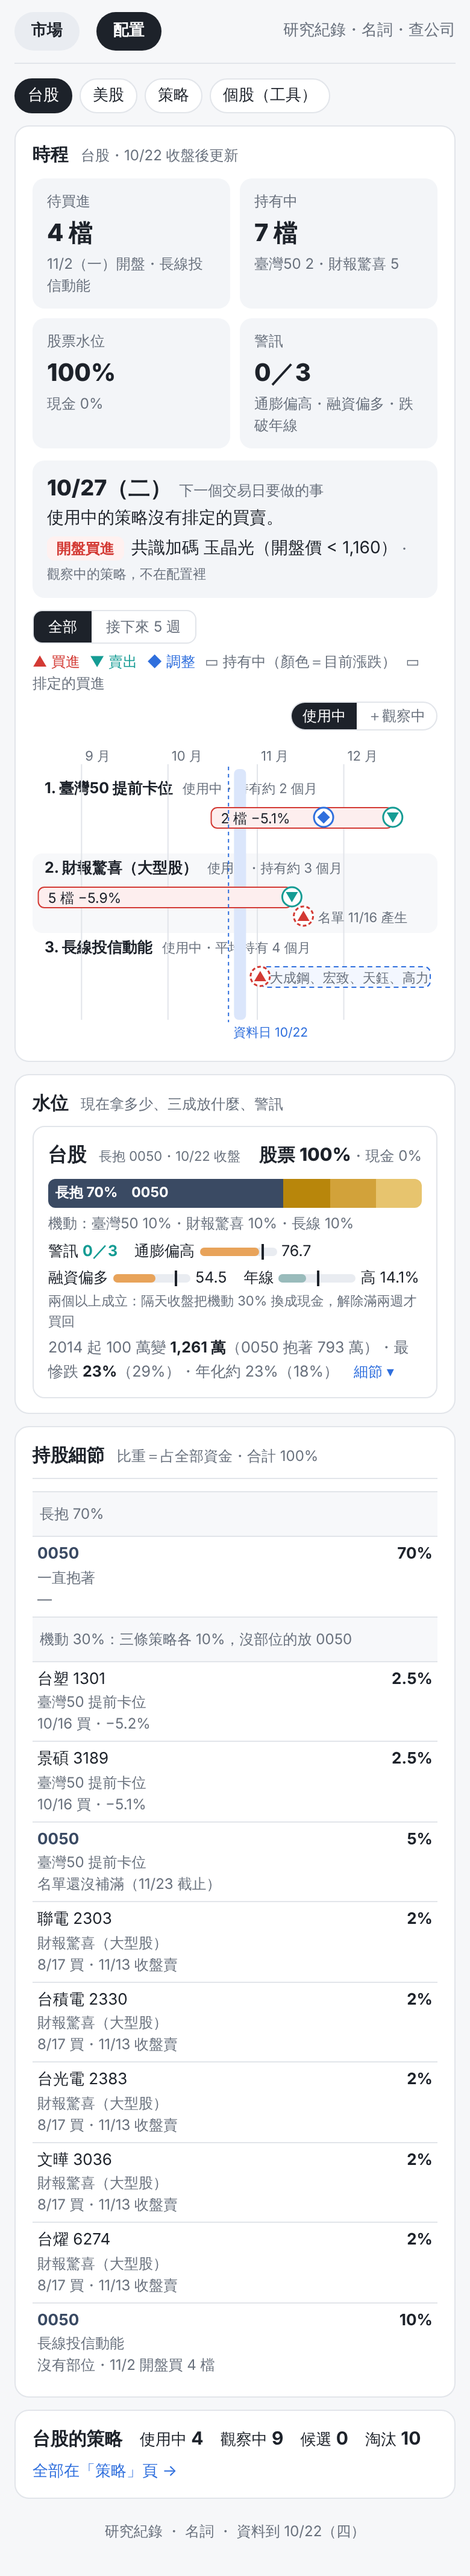
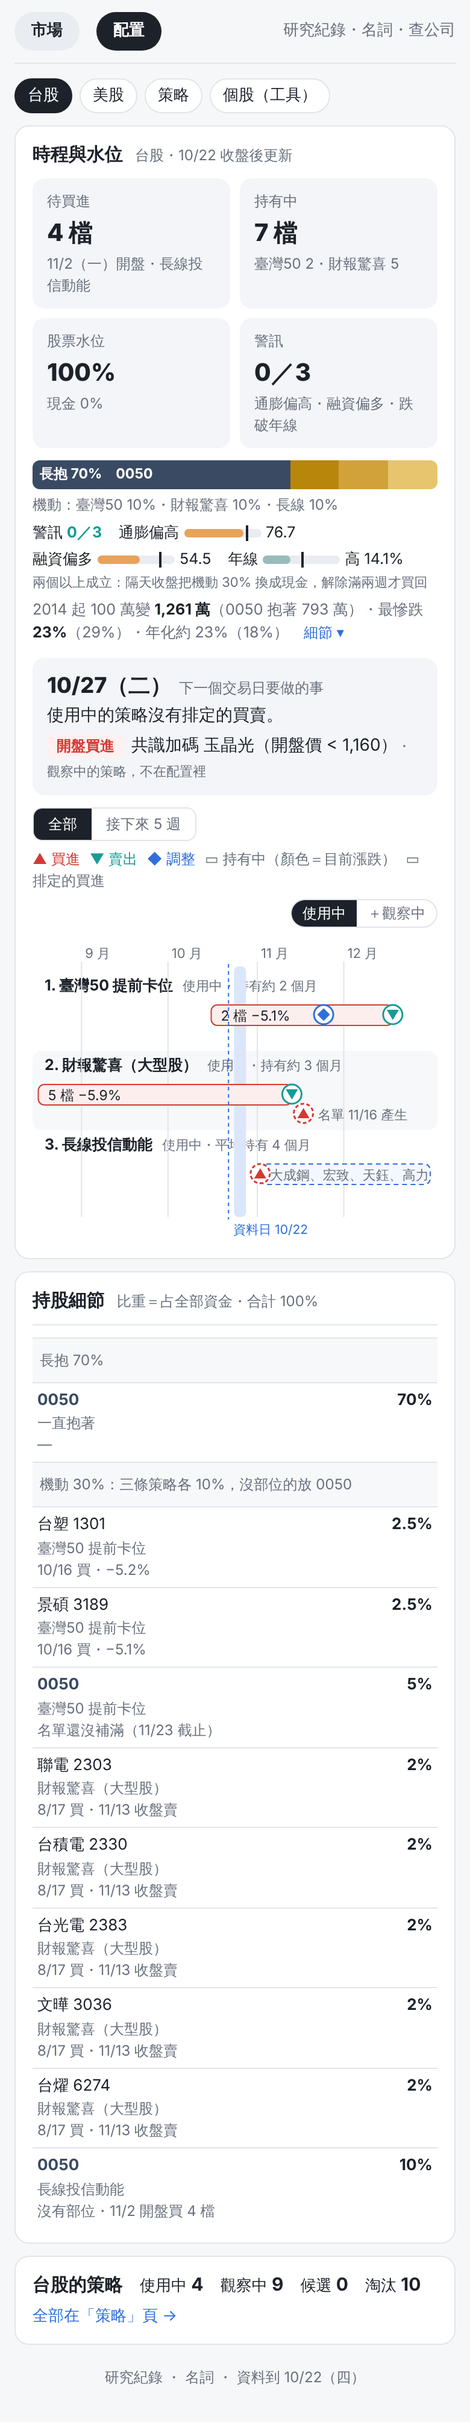
v5 規劃檔第五輪：市場頁美股照舊不整合；配置頁時程與水位併成一張卡；示意圖第五版
Claude-Session: https://claude.ai/code/session_01Bw8dmRtPnDTV9FRHXYRm2s

diff --git a/docs/mockups/ia_v5_mock.html b/docs/mockups/ia_v5_mock.html
@@ -1,6 +1,6 @@
 <!doctype html>
 <html lang="zh-Hant"><head><meta charset="utf-8"><meta name="viewport" content="width=device-width,initial-scale=1">
-<title>籌碼雷達 v5 示意圖（第四版）</title>
+<title>籌碼雷達 v5 示意圖（第五版）</title>
 <style>
 :root{--bg:#f6f7f9;--card:#fff;--ink:#1d222a;--mut:#69717d;--line:#e2e5ea;--red:#d33a34;--teal:#159c94;--gold:#b8860b;--blue:#2f6fdd;--warm:#fff1f0;--cool:#edf7f6;--navy:#3a4a63}
 *{box-sizing:border-box}body{margin:0;background:var(--bg);color:var(--ink);font:14px/1.5 -apple-system,"Noto Sans TC","PingFang TC",system-ui,sans-serif}
@@ -85,10 +85,11 @@
 @media(max-width:640px){.bub{grid-template-columns:7em 3.5em 1fr}}
 .lvc.full{max-width:none}
 .qq{font-size:12.5px;color:var(--mut);margin-top:4px}.qq b{color:var(--ink)}
+.stack{margin-top:10px}.perf{margin-bottom:10px}
 </style></head><body>
 <div class="page" id="market">
   <div class="top"><span class="tab on">市場</span><span class="tab">配置</span><span class="r">研究紀錄・名詞・查公司</span></div>
-  <div class="mk"><span class="on">台股</span><span>美股</span></div>
+  <div class="mk"><span class="on">台股</span><span>S&amp;P 500</span><span>那斯達克</span><span>那斯達克 100</span><span>費半</span></div>
   <div class="card">
     <div class="hd"><span class="px">加權指數 46,041</span><span class="d">10/22（四）・離 60 日高點 −7.6%</span></div>
     <div class="chips"><span class="chip hot">基本面 94 過熱</span><span class="chip hot">籌碼 83 過熱</span><span class="chip cold">全球資金 17 過冷</span><span class="chip">台灣資金 43</span><span class="chip cold">技術 31 偏冷</span></div>
@@ -141,89 +142,23 @@
   <div class="foot">研究紀錄 ・ 名詞 ・ 資料到 10/22（四）</div>
 </div>
 
-<div class="page" id="market-us" hidden>
-  <div class="top"><span class="tab on">市場</span><span class="tab">配置</span><span class="r">研究紀錄・名詞・查公司</span></div>
-  <div class="mk"><span class="">台股</span><span class="on">美股</span></div>
-  <div class="card">
-    <div class="hd"><span class="px">S&amp;P 500 6,735</span><span class="d">10/22（四）・離 60 日高點 −1.9%</span><span class="d">那斯達克 100 24,980・−2.4%</span><span class="d">費半 6,410・−8.7%（6/22 高點起 −24%）</span></div>
-    <div class="chips"><span class="chip hot">基本面 68 偏熱</span><span class="chip">情緒籌碼 55</span><span class="chip">資金 40</span><span class="chip hot">技術 62 偏熱</span></div>
-    <div class="rad" style="margin-top:10px">
-      <svg viewBox="0 0 220 200" width="100%" style="max-width:260px"><polygon points="110,20 200,100 110,180 20,100" fill="none" stroke="#e2e5ea"/><polygon points="110,60 160,100 110,140 60,100" fill="none" stroke="#e2e5ea"/><polygon points="110,46 150,100 110,130 74,100" fill="rgba(211,58,52,.18)" stroke="#d33a34" stroke-width="2"/><text x="110" y="12" font-size="11" text-anchor="middle">基本面 68</text><text x="204" y="104" font-size="11" text-anchor="end" dx="12">情緒籌碼 55</text><text x="110" y="196" font-size="11" text-anchor="middle">技術 62</text><text x="2" y="104" font-size="11">資金 40</text></svg>
-      <div>
-        <div class="mv">
-          <span class="k">這週</span><span class="v">上週 → 現在</span><span class="v">主要原因</span>
-          <span class="k">基本面</span><span class="v">65 → <b>68</b> +3</span><span class="v">失業率、製造業指數</span>
-          <span class="k">情緒籌碼</span><span class="v">52 → <b>55</b> +3</span><span class="v">VIX 回落、期貨淨多單</span>
-          <span class="k">資金</span><span class="v">42 → <b>40</b> −2</span><span class="v">10 年債、高收益債利差</span>
-          <span class="k">技術</span><span class="v">66 → <b>62</b> −4</span><span class="v">RSI、20 日乖離</span>
-        </div>
-        <div class="oth"><span>技術面依指數：</span><span>S&amp;P 500 <b>62</b></span><span>那斯達克 100 <b>58</b></span><span>費半 <b>71</b> 偏熱</span><span class="note">基本面、情緒籌碼、資金三個面向是整個美股共用的</span></div>
-      </div>
-    </div>
-  </div>
-  <div class="card">
-    <h2>今天的訊號 <small>S&amp;P 500；點一列看之後怎麼走</small></h2>
-    <div class="therm">
-      <span>短線</span><div class="bar"><i style="left:50%"></i><b style="left:40%"></b></div><span class="rd">偏多 3・警示 4 → <b style="color:var(--teal)">偏警示</b></span>
-      <span>中線</span><div class="bar"><i style="left:50%"></i><b style="left:68%"></b></div><span class="rd">偏多 5・警示 2 → <b>偏多</b></span>
-      <span>長線</span><div class="bar"><i style="left:50%"></i><b style="left:76%"></b></div><span class="rd">偏多 6・警示 1 → <b>偏多</b></span>
-    </div>
-    <div class="seg" style="margin-top:10px"><span class="on">短線 1 個月</span><span>中線 3 個月</span><span>長線 12 個月</span></div>
-    <div class="two">
-      <div class="list"><h4 class="up">偏多 3 類 <small style="font-weight:400;color:var(--mut)">之後 1 個月上漲的機率（任一天 62%）</small></h4>
-        <div class="row"><span class="n">上漲家數占比・進入過冷</span><span class="p">70% <small>+2.1%</small></span><span class="s">10/21 收盤進場・持有到 11/20</span></div>
-        <div class="row"><span class="n">20 日乖離・過冷結束<span class="tag">震盪</span></span><span class="p">66% <small>+1.8%</small></span><span class="s">10/17 進場・持有到 11/17・同時成立 3 類</span></div>
-        <div class="row"><span class="n">10 年減 3 個月利差・過冷結束</span><span class="p">64% <small>+1.5%</small></span><span class="s">10/9 進場・持有到 11/9</span></div>
-      </div>
-      <div class="list"><h4 class="dn">警示 4 類 <small style="font-weight:400;color:var(--mut)">之後 1 個月內回撤 5.7% 以上的機率（任一天 8%）</small></h4>
-        <div class="row"><span class="n">M2 年增率・過熱中<span class="tag ok">之後也成立</span></span><span class="p">31% <small>回撤中位 4%</small></span><span class="s">8/29 起成立</span></div>
-        <div class="row"><span class="n">期貨淨多單・進入過熱</span><span class="p">24%</span><span class="s">10/14 進場・持有到 11/13</span></div>
-        <div class="row"><span class="n">隱含波動率・過冷中</span><span class="p">22%</span><span class="s">10/2 起成立・同時成立 2 個</span></div>
-        <div class="more">還有 1 類 ▾</div>
-      </div>
-    </div>
-    <div class="oth" style="margin-top:10px"><span>其他指數：</span><span>那斯達克 100 短線 偏多 <b>2</b>・警示 <b>3</b></span><span>費半 短線 偏多 <b>1</b>・警示 <b>5</b></span><span class="more" style="margin:0">看它們的清單 ▾</span></div>
-  </div>
-  <div class="card">
-    <h2>全部指標 <small>92 個；三個指數共用 60 個，技術面與泡沫依指數各算</small></h2>
-    <div class="srch"><input placeholder="搜尋指標，例如 VIX、失業率、M2"></div>
-    <div class="chips"><span class="chip">基本面 11</span><span class="chip">情緒籌碼 5</span><span class="chip">資金 10</span><span class="chip">技術 9</span><span class="chip">情境 9</span><span class="chip">泡沫 11</span><span class="chip">大跌後買點 7</span><span class="chip">指數型策略 14</span></div>
-    <div class="more">展開全部 92 個 ▾</div>
-  </div>
-  <div class="card" id="bub-us">
-    <h2>泡沫 <small>三個指數各自的等級（0 沒有跡象 … 4 嚴重泡沫）</small></h2>
-    <div class="bub">
-      <span>S&amp;P 500</span><span class="lv y">2</span><span class="cond" style="margin:0"><span class="y">價格爆發 ✓</span><span>估值 ✗</span><span>槓桿 ✗</span><span>未來獲利 ✗</span></span>
-      <span>那斯達克 100</span><span class="lv">0</span><span class="note">沒有跡象</span>
-      <span>費半</span><span class="lv y">2</span><span class="cond" style="margin:0"><span class="y">價格爆發 ✓</span><span>漲得比獲利快 ✗</span><span>未來獲利 ✗</span></span>
-    </div>
-    <div class="band"></div><div class="ax"><span>1950</span><span>2000</span><span>2008</span><span>2021</span><span>2026</span></div>
-    <div class="mv" style="margin-top:8px"><span class="k">產業</span><span class="v"><b>科技 XLK 2</b></span><span class="v">一個價格條件</span><span></span><span class="v">49 個細產業裡 <b>8 個等級 2</b>（2026-08）</span><span class="v">兩年翻倍、比大盤多漲</span></div>
-    <div class="more">全部類股與細產業 ▾</div>
-  </div>
-  <div class="foot">研究紀錄 ・ 名詞 ・ 資料到 10/22（四）</div>
-</div>
 <div class="page" id="cfg-tw" hidden>
   <div class="top"><span class="tab">市場</span><span class="tab on">配置</span><span class="r">研究紀錄・名詞・查公司</span></div>
   <div class="mk"><span class="on">台股</span><span class="">美股</span><span class="">策略</span><span class="">個股（工具）</span></div>
   <div class="card">
-    <h2>時程 <small>台股・10/22 收盤後更新</small></h2>
+    <h2>時程與水位 <small>台股・10/22 收盤後更新</small></h2>
     <div class="tiles"><div class="tile"><div class="l">待買進</div><div class="v">4 檔</div><div class="s">11/2（一）開盤・長線投信動能</div></div><div class="tile"><div class="l">持有中</div><div class="v">7 檔</div><div class="s">臺灣50 2・財報驚喜 5</div></div><div class="tile"><div class="l">股票水位</div><div class="v">100%</div><div class="s">現金 0%</div></div><div class="tile"><div class="l">警訊</div><div class="v">0／3</div><div class="s">通膨偏高・融資偏多・跌破年線</div></div></div>
+    <div class="stack"><div class="c">長抱 70%　0050</div><div class="s1">臺灣50 10%</div><div class="s2">財報驚喜 10%</div><div class="s3">長線 10%</div></div><div class="stlg">機動：臺灣50 10%・財報驚喜 10%・長線 10%</div>
+      <div class="lvr"><span>警訊 <span class="ok">0／3</span></span><span>通膨偏高<i class="wb"><i style="width:77%"></i><u></u></i>76.7</span><span>融資偏多<i class="wb"><i style="width:55%"></i><u></u></i>54.5</span><span>年線<i class="wb"><i style="width:36%;background:#9bb"></i><u style="left:50%"></u></i>高 14.1%</span></div>
+      <div class="note">兩個以上成立：隔天收盤把機動 30% 換成現金，解除滿兩週才買回</div>
+      
+    <div class="perf">2014 起 100 萬變 <b>1,261 萬</b>（0050 抱著 793 萬）・最慘跌 <b>23%</b>（29%）・年化約 23%（18%）　<span class="more" style="margin:0">細節 ▾</span></div>
+    
     <div class="nextbox" style="grid-template-columns:1fr">
       <div><div class="d">10/27（二）<small>下一個交易日要做的事</small></div><div>使用中的策略沒有排定的買賣。</div><div style="margin-top:4px"><span class="pillb">開盤買進</span>共識加碼 玉晶光（開盤價 &lt; 1,160）<span class="note">・觀察中的策略，不在配置裡</span></div></div>
     </div>
     <div class="tlbar"><span class="seg" style="margin:0"><span class="on">全部</span><span>接下來 5 週</span></span><span class="lg"><b style="color:#d33a34">▲ 買進</b><b style="color:#159c94">▼ 賣出</b><b style="color:#2f6fdd">◆ 調整</b><b>▭ 持有中（顏色＝目前漲跌）</b><b>▭ 排定的買進</b></span><span style="margin-left:auto"><span class="sw"><span class="on">使用中</span><span>＋觀察中</span></span></span></div>
     <div id="tl-tw" class="tlbox"></div>
-  </div>
-  <div class="card">
-    <h2>水位 <small>現在拿多少、三成放什麼、警訊</small></h2>
-    <div class="lvc full">
-      <div class="h"><b>台股</b><span class="note">長抱 0050・10/22 收盤</span><span class="w">股票 100%<small>・現金 0%</small></span></div>
-      <div class="stack"><div class="c">長抱 70%　0050</div><div class="s1">臺灣50 10%</div><div class="s2">財報驚喜 10%</div><div class="s3">長線 10%</div></div><div class="stlg">機動：臺灣50 10%・財報驚喜 10%・長線 10%</div>
-      <div class="lvr"><span>警訊 <span class="ok">0／3</span></span><span>通膨偏高<i class="wb"><i style="width:77%"></i><u></u></i>76.7</span><span>融資偏多<i class="wb"><i style="width:55%"></i><u></u></i>54.5</span><span>年線<i class="wb"><i style="width:36%;background:#9bb"></i><u style="left:50%"></u></i>高 14.1%</span></div>
-      <div class="note">兩個以上成立：隔天收盤把機動 30% 換成現金，解除滿兩週才買回</div>
-      <div class="perf">2014 起 100 萬變 <b>1,261 萬</b>（0050 抱著 793 萬）・最慘跌 <b>23%</b>（29%）・年化約 23%（18%）　<span class="more" style="margin:0">細節 ▾</span></div>
-    </div>
   </div>
   <div class="card">
     <h2>持股細節 <small>比重＝占全部資金・合計 100%</small></h2>
@@ -252,24 +187,19 @@
   <div class="top"><span class="tab">市場</span><span class="tab on">配置</span><span class="r">研究紀錄・名詞・查公司</span></div>
   <div class="mk"><span class="">台股</span><span class="on">美股</span><span class="">策略</span><span class="">個股（工具）</span></div>
   <div class="card">
-    <h2>時程 <small>美股・10/22 收盤後更新</small></h2>
+    <h2>時程與水位 <small>美股・10/22 收盤後更新</small></h2>
     <div class="tiles"><div class="tile"><div class="l">待買進</div><div class="v">1 檔</div><div class="s">10/26（一）開盤・強勢品質股</div></div><div class="tile"><div class="l">持有中</div><div class="v">7 檔</div><div class="s">強勢品質股・平均 +18.5%</div></div><div class="tile"><div class="l">股票水位</div><div class="v">100%</div><div class="s">現金 0%</div></div><div class="tile"><div class="l">警訊</div><div class="v">0／4</div><div class="s">通膨・融資增加・跌破年線・總經策略全部空手</div></div></div>
+    <div class="stack"><div class="c">長抱 70%　SPY／VOO</div><div class="s30">強勢品質股 30%（8 檔）</div></div><div class="stlg">機動：強勢品質股 30%（8 檔，空位放 S&amp;P 500）</div>
+      <div class="lvr"><span>警訊 <span class="ok">0／4</span></span><span>通膨<i class="wb"><i style="width:77%"></i><u></u></i>76.7</span><span>融資增加<i class="wb"><i style="width:75%"></i><u></u></i>75.0</span><span>年線<i class="wb"><i style="width:44%;background:#9bb"></i><u style="left:50%"></u></i>高 5.2%</span><span>總經策略<i class="wb"><i style="width:25%;background:#9bb"></i><u style="left:99%"></u></i>3 條有部位</span></div>
+      <div class="note">兩個以上成立，或總經策略全部空手：隔天收盤把機動 30% 換成現金</div>
+      
+    <div class="perf">2014 起 100 萬變 <b>886 萬</b>（SPY 抱著 515 萬）・最慘跌 <b>25%</b>（34%）・年化約 19%（14%）　<span class="more" style="margin:0">細節 ▾</span></div>
+    <div class="qq">長抱改成那斯達克 100（QQQ）的版本：同一套規則 100 萬變 <b>1,281 萬</b>（QQQ 抱著 947 萬）・最慘跌 <b>31%</b>（35%）。只是對照，配置照 S&amp;P 500。</div>
     <div class="nextbox" style="grid-template-columns:1fr">
       <div><div class="d">10/26（一）<small>下一個交易日要做的事</small></div><div><span class="pillb">開盤買進</span>強勢品質股 補 1 檔（名單 10/23 收盤定案，目前 PAYC 領先）</div><div style="margin-top:4px"><span class="note">觀察中：200 日線上用期貨多拿 5 成，在線上（+11.7%），不用動</span></div></div>
     </div>
     <div class="tlbar"><span class="seg" style="margin:0"><span class="on">全部</span><span>接下來 5 週</span></span><span class="lg"><b style="color:#d33a34">▲ 買進</b><b style="color:#159c94">▼ 賣出</b><b style="color:#2f6fdd">◆ 調整</b><b>▭ 持有中（顏色＝目前漲跌）</b><b>▭ 排定的買進</b></span><span style="margin-left:auto"><span class="sw"><span>使用中</span><span class="on">＋觀察中</span></span></span></div>
     <div id="tl-us" class="tlbox"></div>
-  </div>
-  <div class="card">
-    <h2>水位 <small>現在拿多少、三成放什麼、警訊</small></h2>
-    <div class="lvc full">
-      <div class="h"><b>美股</b><span class="note">長抱 S&amp;P 500（SPY／VOO）・10/22 收盤</span><span class="w">股票 100%<small>・現金 0%</small></span></div>
-      <div class="stack"><div class="c">長抱 70%　SPY／VOO</div><div class="s30">強勢品質股 30%（8 檔）</div></div><div class="stlg">機動：強勢品質股 30%（8 檔，空位放 S&amp;P 500）</div>
-      <div class="lvr"><span>警訊 <span class="ok">0／4</span></span><span>通膨<i class="wb"><i style="width:77%"></i><u></u></i>76.7</span><span>融資增加<i class="wb"><i style="width:75%"></i><u></u></i>75.0</span><span>年線<i class="wb"><i style="width:44%;background:#9bb"></i><u style="left:50%"></u></i>高 5.2%</span><span>總經策略<i class="wb"><i style="width:25%;background:#9bb"></i><u style="left:99%"></u></i>3 條有部位</span></div>
-      <div class="note">兩個以上成立，或總經策略全部空手：隔天收盤把機動 30% 換成現金</div>
-      <div class="perf">2014 起 100 萬變 <b>886 萬</b>（SPY 抱著 515 萬）・最慘跌 <b>25%</b>（34%）・年化約 19%（14%）　<span class="more" style="margin:0">細節 ▾</span></div>
-      <div class="qq">長抱改成那斯達克 100（QQQ）的版本：同一套規則 100 萬變 <b>1,281 萬</b>（QQQ 抱著 947 萬）・最慘跌 <b>31%</b>（35%）。只是對照，配置照 S&amp;P 500。</div>
-    </div>
   </div>
   <div class="card">
     <h2>持股細節 <small>比重＝占全部資金・合計 100%</small></h2>

diff --git a/docs/lab_ia_v5_plan.md b/docs/lab_ia_v5_plan.md
@@ -336,12 +336,12 @@
 
 | 段 | 做什麼 | 產出 | 驗收 |
 |---|---|---|---|
-| 1 | **配置頁**（第 17 節版面：台股頁、美股頁、策略頁）：時程、水位、持股細節、策略總覽（含狀態檔）、個股分頁、候選區（先空）；後台先搬到 `x9r.html` | x9.html、x9r.html、board.py、strategy_board.json | 電腦／手機截圖；配置頁可見文字 ≤ 15,000 字 |
-| 2 | **市場頁**：頁首一列、泡沫併入、全部指標併入、研究結論改表；美股四個指數整合成一頁（第 17.2 節，順便做掉第 6 段）；驗證等搬到研究紀錄；x9b／x9o 轉址 | x9m.html、x9mu.html、x9r.html 補齊 | 台股頁 ≤ 15,000 字、手機不橫捲 |
+| 1 | **配置頁**（第 18 節版面：台股頁、美股頁、策略頁）：時程與水位一張卡、持股細節、策略總覽（含狀態檔）、個股分頁、候選區（先空）；後台先搬到 `x9r.html` | x9.html、x9r.html、board.py、strategy_board.json | 電腦／手機截圖；配置頁可見文字 ≤ 15,000 字 |
+| 2 | **市場頁**：頁首一列、泡沫併入、全部指標併入、研究結論改表；驗證等搬到研究紀錄；x9b／x9o 轉址（美股四個指數照舊，第 18.1 節） | x9m.html、x9mu.html、x9r.html 補齊 | 台股頁 ≤ 15,000 字、手機不橫捲 |
 | 3 | **用字清理**：兩個主頁面全部文案過一遍、test_plain | — | 測試綠、人工讀一遍 |
 | 4 | **導覽與入口**：頂欄改 市場｜配置、主頁「·」入口、CLAUDE.md、排程搬家（Routine 的分支要有新程式） | appnav、CLAUDE.md | 六個舊網址都轉得到 |
 | 5 | **候選機制**：規格檔、cands 程式架構、CI 回測、候選區、週日 Routine、推播一行；第一週先找 1～2 條試跑 | 第 6 節全部 | 第一條候選出現在頁面 |
-| 6 | **美股頁面板體積**：已併入第 2 段（美股整合成一頁時一起做） | — | — |
+| 6 | **美股頁面板體積**：四個指數的細項面板改成點到才下載（2.2MB → 約 0.5MB） | x9mu.html、x9mup-*.json | 手機下載量 |
 
 第 1～4 段約 3～4 天；第 5 段 2 天；第 6 段 1 天。每段合併後 CI 自動重建，我用 main 上的檔案驗，線上要你看。
 
@@ -494,7 +494,7 @@
 
 ## 17. 第四輪修正（2026-10-23，使用者看過第三版：「好很多 但同一頁資訊還是太多 你把台灣跟美國分開成個別子頁面 然後美國的可以整合起來不用分四個 再規劃一個版本給我」）
 
-**取代第 16.1、16.4 節，以及第 15.1 節的美股部分**。示意圖第四版共 10 張：
+**取代第 16.1、16.4 節，以及第 15.1 節的美股部分**（市場頁的美股整合又被第 18.1 節取消；時程與水位由第 18.3 節併成一張卡）。示意圖第四版共 10 張（已被第五版取代）：
 `docs/mockups/ia_v5_{market,market-us,cfg-tw,cfg-us,cfg-strat}_{phone,desktop}.png`，原稿 `docs/mockups/ia_v5_mock.html`。
 
 ### 17.1 配置：台股一頁、美股一頁、策略一頁
@@ -534,6 +534,44 @@
 ```
 市場：台股頁、美股頁（各＝面向 → 今天的訊號 → 全部指標 → 泡沫；美股一頁整合三個指數）
 配置：台股頁、美股頁（各＝時程 → 水位 → 持股細節 → 策略一行）、策略頁（全部策略：使用中／觀察中／候選／淘汰）、個股（工具）
+研究紀錄（頁尾進）：全部驗證與方法
+```
+
+## 18. 第五輪修正（2026-10-23，使用者看過第四版：「市場頁的美股可以不整合 配置頁美股則整合 然後你的時程跟水位為什麼不整合」）
+
+**取代第 17.2 節的市場頁部分與第 17.1 節的四塊**。示意圖第五版：`docs/mockups/ia_v5_{market,cfg-tw,cfg-us,cfg-strat}_{phone,desktop}.png`，原稿 `ia_v5_mock.html`。
+
+### 18.1 市場頁美股不整合
+
+- 市場頁照第 15.1 節：第二排 台股｜S&P 500｜那斯達克｜那斯達克 100｜費半，四個美股指數各自一套（面向 → 今天的訊號 → 全部指標 → 泡沫）。
+  `heatpage_us` 的四份 template 切換不動；第 10 節第 6 段（美股面板點到才下載）恢復成獨立一段。
+- 第 17.2 節關於市場頁的「S&P 500 一份＋其他指數摘要」作廢。
+
+### 18.2 配置頁美股整合（照第 17.2 節）
+
+一個計畫＝長抱 70% S&P 500（SPY／VOO）＋機動 30% 強勢品質股；那斯達克 100 的版本只在成績下面一行當對照。不變。
+
+### 18.3 配置頁：時程與水位併成一張卡
+
+台股頁、美股頁各三塊（第四版是四塊）：
+
+1. **時程與水位**（一張卡，由上而下）：
+   - 四格：待買進｜持有中｜股票水位｜警訊；
+   - 水位長條（長抱 70%｜機動三成的分配；手機版名稱寫在長條下一行）；
+   - 警訊一行（每個警訊一條小長條與分數）＋規則一句＋成績一行（100 萬變多少、最慘跌、年化，括號＝一直抱著；美股多 QQQ 對照一行）；
+   - 下一個交易日要做的事；
+   - 時間軸（全部｜接下來 5 週、使用中｜＋觀察中）。
+   上半段＝現在的狀態，下半段＝接下來要做的事；第四版把這兩段拆成「時程」「水位」兩張卡是多餘的。
+2. **持股細節**：一張表。
+3. 一行「這個市場的策略：使用中 N・觀察中 N・候選 N・淘汰 N，全部在「策略」頁」。
+
+策略頁不變。份量：手機高度 台股 4,020 px、美股 4,120 px。
+
+### 18.4 兩頁的最終結構（取代 17.3）
+
+```
+市場：台股｜S&P 500｜那斯達克｜那斯達克 100｜費半（各＝面向 → 今天的訊號 → 全部指標 → 泡沫）
+配置：台股頁、美股頁（各＝時程與水位 → 持股細節 → 策略一行）、策略頁（全部策略：使用中／觀察中／候選／淘汰）、個股（工具）
 研究紀錄（頁尾進）：全部驗證與方法
 ```
 
